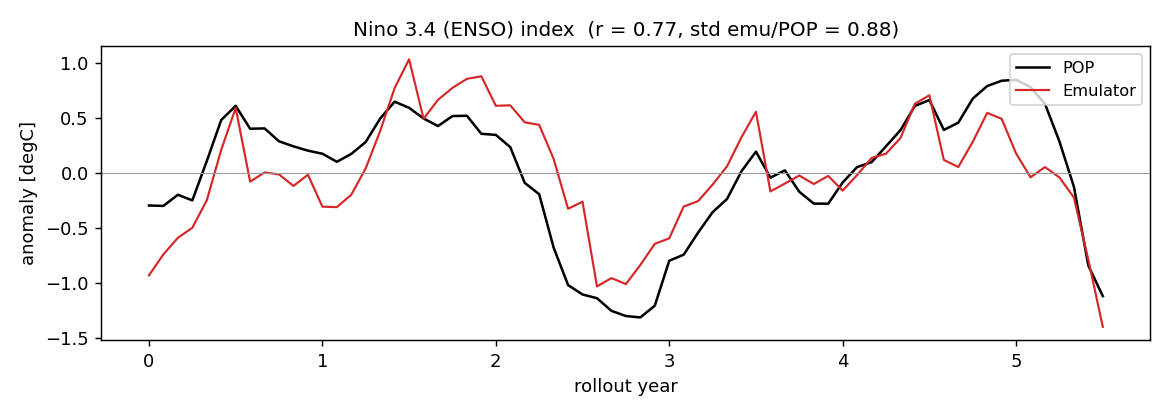
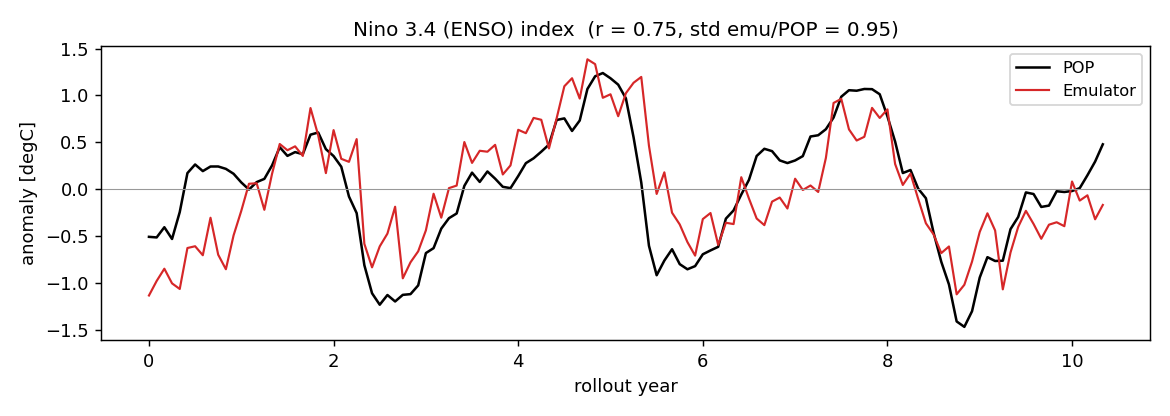
Record run-3 result: stable horizon ~doubled (5.6->10.4 yr), PDO PC corr 0.67->0.84
Run 3 (pushforward+history+noise, 2/4/8-step curriculum) free rollout stable for
125 mo vs run-2's 67; ENSO/AMO maintained with better amplitude; 24-mo skill
positive 4-20mo. Updates run-3 diagnostics figures + eval archive. Next: resume
to reach 12/16-step rollout for further stability.

diff --git a/memory.md b/memory.md
@@ -134,6 +134,20 @@ conservation laws, not a generic image regressor.
 - Gotcha learned: input noise + tendency-weighted loss blows up the loss (~36) if
   the residual anchors on the *noised* state; anchor on the clean state (model
   `base=` arg). Eval/diag rollouts now keep an H-state history buffer.
+- **RESULT — run 3 (job 4551769, completed at 12h walltime, step ~26k; reached
+  2/4/8-step curriculum, did NOT reach 12/16-step). Stayed stable the whole run.**
+  Eval job 4573198, diagnostics 4573199 (ckpt checkpoints/run3/last.pt, member 001):
+  - **Free-rollout stability: 125 mo (10.4 yr)** vs run-2's 67 mo (5.6 yr) — ~2x.
+  - Nino3.4 corr 0.75 / std-ratio 0.95; AMO corr 0.67; **PDO PC1 corr 0.84**
+    (run 2: 0.67); PDO varfrac emu 0.72 vs POP 0.31 (still over-concentrated).
+  - 24-mo skill positive 4-20mo (TEMP 0.29-0.48, UVEL 0.26-0.47, SSH 0.30-0.38);
+    slightly less peaked at short lead than run 2 (stability/sharpness tradeoff),
+    more consistent across leads. Conservation heat ~1e-3, salt ~1e-4.
+  - Takeaway: pushforward+history+noise roughly doubled stable horizon with skill
+    maintained. To go further: RESUME run 3 to reach 12/16-step rollout
+    (`qsub -v CONFIG=configs/run3.yaml,CKPT_DIR=checkpoints/run3 jobs/train.pbs`
+    auto-resumes from checkpoints/run3/last.pt). NB diagnostics figures in
+    docs/figures/ were overwritten with run-3's; run-2 figs are in git history.
 
 ## Next steps (in order)
 
